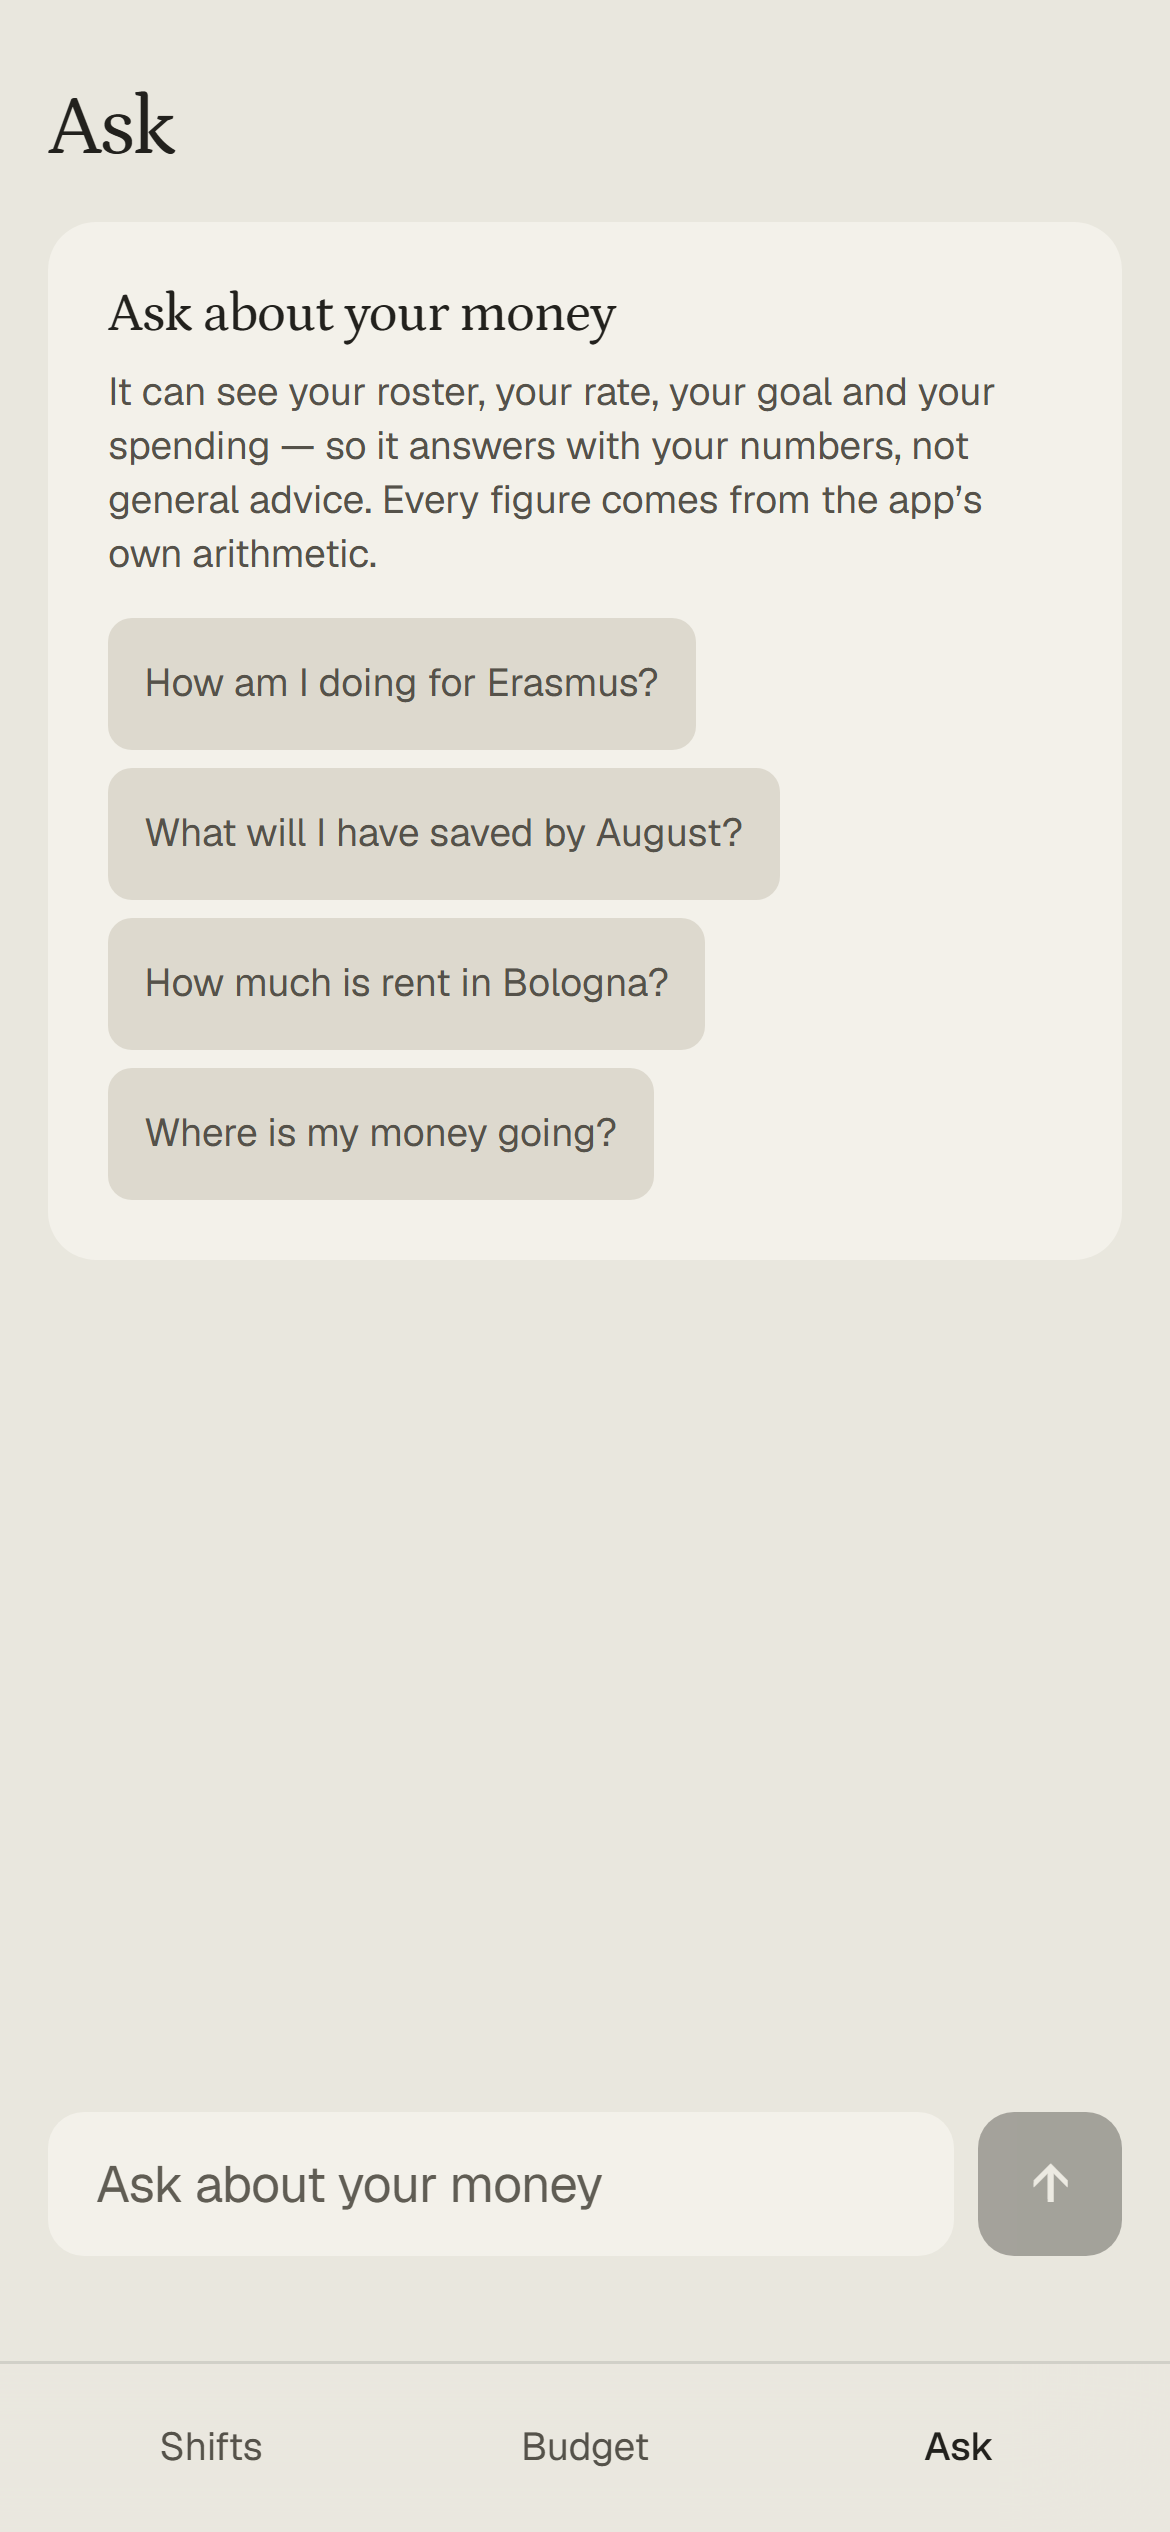
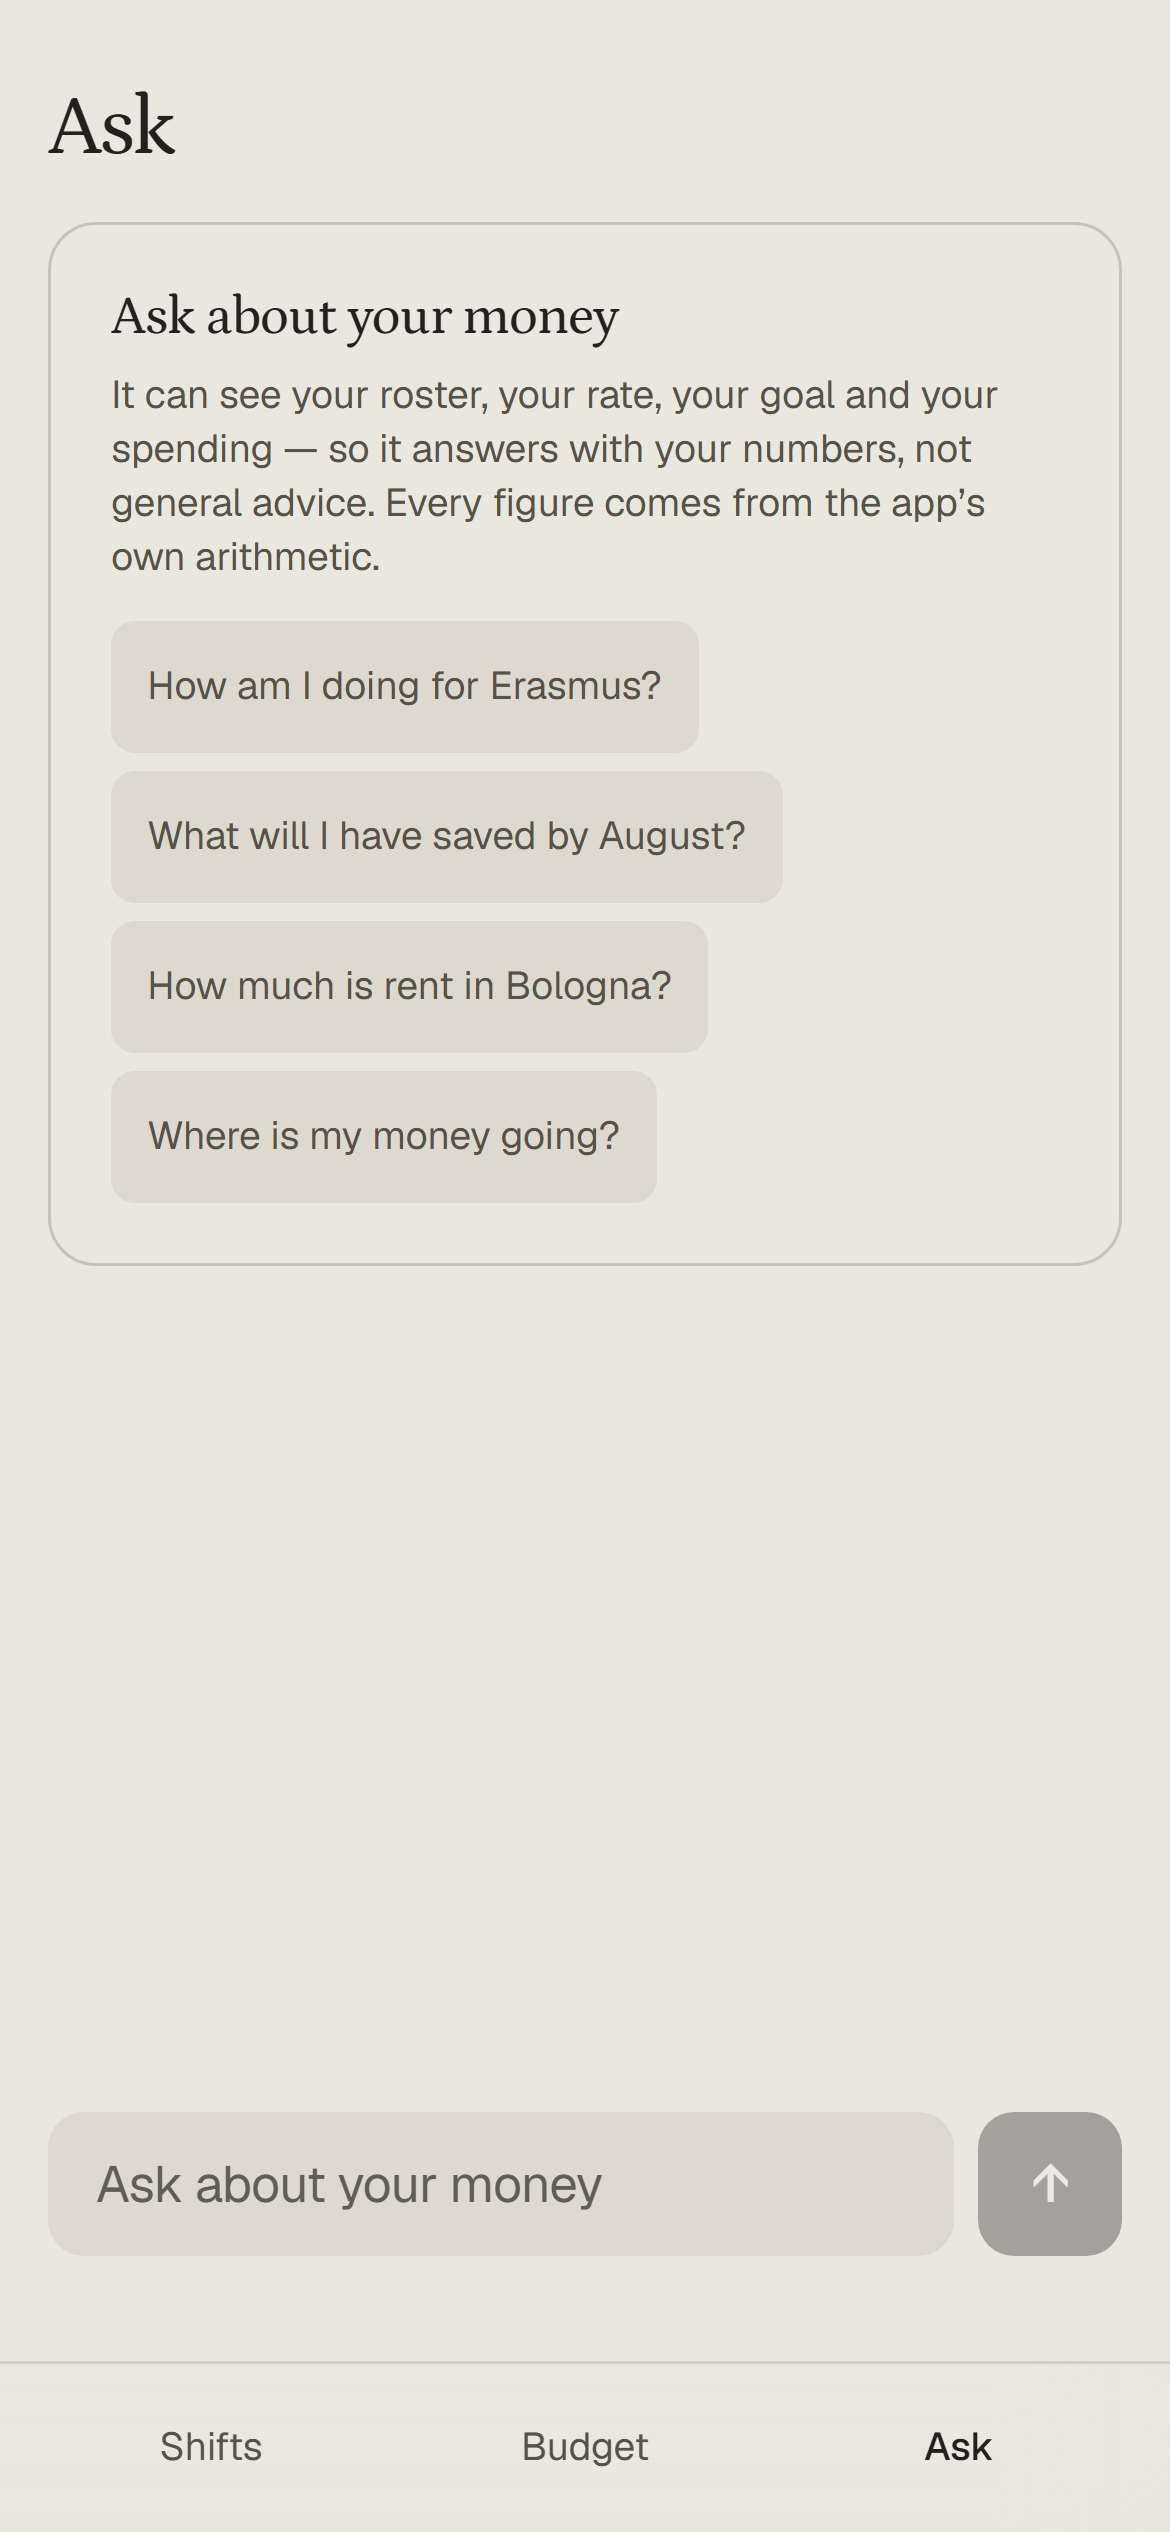
No card gets a fill
Every card carried --surface-raised, a second surface a shade off the page.
Enough of them and the screen reads as a dashboard however flat the shadows
are: a stack of filled rectangles is the shape, and the fill is what makes
each one an object competing with its neighbours. Separation now comes from
one hairline and from space.

--surface-raised is deleted rather than left unused. A "raised" token
sitting in the palette with no callers is the loaded gun — the next card
picks it up and the stack comes back. --surface-sunken survives, because
inset controls are genuinely below the page rather than above it.

Panel and Card had become the same primitive the moment fills went, so they
are one. That also fixes a latent bug: Panel set its own px-5 py-5 and every
call site passed different padding after it, so which padding won depended
on Tailwind's output order rather than on the code.

Four ad-hoc filled sections in setup and the AI tab are hairlines too, and
the chat composer moved to --segment-track, where every other input in the
app already sits. It was the last thing holding --surface-raised.

The rule's own corollary applied as well: if two things need separating, use
space rather than a container. A sentence saying there is nothing here does
not need a box drawn around the nothing, so Empty lost its card, as did
"Set a goal first" and "No spending recorded yet". A box around one sentence
was never a group.
[…]

diff --git a/app/_components/ui.tsx b/app/_components/ui.tsx
@@ -100,32 +100,21 @@ export function NavRow({
 }
 
 /**
- * The headline region: whatever number a screen exists to state.
+ * A grouped region. A hairline on the page field — never a fill.
  *
- * A hairline, not a fill. Every one of these was an inverted dark card until
- * the Discovery Series palette landed, and five dark slabs across five
- * screens were the heaviest thing in the app — the figure was being carried
- * by its background rather than by its size.
+ * Every card used to carry --surface-raised, a second surface a shade off the
+ * page. Enough of them and the screen reads as a dashboard however flat the
+ * shadows are: a stack of filled rectangles is the shape, and the fill is
+ * what makes each one an object competing with its neighbours.
  *
- * On a map sheet nothing is a filled block. Rank comes from ink weight and
- * from space, so the figure keeps the hero ramp and everything around it goes
- * quiet instead.
+ * On a map sheet nothing is a filled block. Separation comes from the rule
+ * and from space, so this draws one hairline and otherwise gets out of the
+ * way. Where two things need separating and neither is a group, use space
+ * instead of reaching for this.
+ *
+ * The one exception in the app is the "not settled yet" card, which keeps a
+ * fill because the fill IS the signal — see NextStep in app/page.tsx.
  */
-export function Panel({
-  children,
-  className = '',
-}: {
-  children: ReactNode;
-  className?: string;
-}) {
-  return (
-    <section className={`rounded-2xl border border-border px-5 py-5 ${className}`}>
-      {children}
-    </section>
-  );
-}
-
-/** A raised surface. Flat — separation comes from the surface step, not shadow. */
 export function Card({
   children,
   className = '',
@@ -133,7 +122,9 @@ export function Card({
   children: ReactNode;
   className?: string;
 }) {
-  return <section className={`rounded-2xl bg-surface-raised ${className}`}>{children}</section>;
+  return (
+    <section className={`rounded-2xl border border-border ${className}`}>{children}</section>
+  );
 }
 
 /** A hairline-separated list inside a Card. */
@@ -222,7 +213,7 @@ export function SecondaryLink({ href, children }: { href: string; children: Reac
 
 export function ErrorNote({ children }: { children: ReactNode }) {
   return (
-    <p role="alert" className="t-caption mt-4 rounded-xl bg-surface-raised px-4 py-3 text-critical">
+    <p role="alert" className="t-caption mt-4 rounded-xl border border-border px-4 py-3 text-critical">
       {children}
     </p>
   );
@@ -231,9 +222,12 @@ export function ErrorNote({ children }: { children: ReactNode }) {
 /** Empty states say what to do next, not merely that there is nothing here. */
 export function Empty({ title, children }: { title: string; children?: ReactNode }) {
   return (
-    <Card className="px-5 py-8 text-center">
+    // No container. A sentence saying there is nothing here does not need a
+    // box drawn around the nothing — the space above and below separates it
+    // from whatever comes next, which is the whole point of the rule.
+    <div className="px-1 py-6">
       <p className="t-heading">{title}</p>
-      {children && <p className="t-caption mt-1.5 text-fg-secondary">{children}</p>}
-    </Card>
+      {children && <p className="t-caption mt-1.5 max-w-[46ch] text-fg-secondary">{children}</p>}
+    </div>
   );
 }

diff --git a/app/budget/page.tsx b/app/budget/page.tsx
@@ -22,7 +22,13 @@ import {
 import { CATEGORY_LABEL } from '@/lib/budget/types';
 import { valueShift } from '@/lib/pay/calc';
 import { addDays, dublinDate } from '@/lib/time/dublin';
-import { Card, Group, GroupRow, Money, Screen, Panel } from '@/app/_components/ui';
+import {
+  Card,
+  Group,
+  GroupRow,
+  Money,
+  Screen,
+} from '@/app/_components/ui';
 import { TabBar } from '@/app/_components/TabBar';
 import { CsvImport, GoalLineForm, OutgoingForm } from './BudgetForms';
 import { endOutgoing } from './actions';
@@ -90,7 +96,7 @@ export default async function BudgetPage() {
       </header>
 
       {/* -- The sentence the app exists to say. -------------------------- */}
-      <Panel className="px-6 py-6">
+      <Card className="px-6 py-6">
         {goal && target.cents > 0 ? (
           <>
             <p className="t-caption text-fg-secondary">
@@ -120,7 +126,7 @@ export default async function BudgetPage() {
             </p>
           </>
         )}
-      </Panel>
+      </Card>
 
       {/* -- What the goal is made of. ------------------------------------ */}
       <section className="mt-6">
@@ -162,14 +168,14 @@ export default async function BudgetPage() {
         {goal ? (
           <GoalLineForm />
         ) : (
-          <Card className="px-5 py-4">
+          <div className="px-1">
             <p className="t-caption text-fg-secondary">
               Set a goal first, then add what it costs.
             </p>
-            <Link href="/goal" className="t-caption mt-2 inline-flex min-h-11 items-center underline">
+            <Link href="/goal" className="t-caption mt-1 inline-flex min-h-11 items-center underline">
               Set a goal
             </Link>
-          </Card>
+          </div>
         )}
       </section>
 
@@ -214,12 +220,12 @@ export default async function BudgetPage() {
            mean magnitude only. */}
       <section className="mt-6">
         <p className="t-label mb-2 px-1 text-fg-secondary">Where it went</p>
-        <Card className="px-5 py-4">
-          {spending.length === 0 ? (
-            <p className="t-caption py-4 text-center text-fg-secondary">
-              No spending recorded yet. Import a statement below.
-            </p>
-          ) : (
+        {spending.length === 0 ? (
+          <p className="t-caption px-1 text-fg-secondary">
+            No spending recorded yet. Import a statement below.
+          </p>
+        ) : (
+          <Card className="px-5 py-4">
             <figure className="m-0 space-y-2.5">
               {spending.map((s) => (
                 <div key={s.category}>
@@ -251,8 +257,8 @@ export default async function BudgetPage() {
                 </table>
               </figcaption>
             </figure>
-          )}
-        </Card>
+          </Card>
+        )}
       </section>
 
       {/* -- Outgoings. ----------------------------------------------------- */}

diff --git a/app/period/page.tsx b/app/period/page.tsx
@@ -25,7 +25,6 @@ import {
   Group,
   GroupRow,
   Money,
-  Panel,
   PrimaryLink,
   Screen,
   SecondaryLink,
@@ -109,7 +108,7 @@ export default async function ThisPeriod(props: PageProps<'/period'>) {
       )}
 
       {/* -- The number. The whole point of the screen. ------------------- */}
-      <Panel className="px-6 py-7">
+      <Card className="px-6 py-7">
         <p className="t-caption text-fg-secondary">{worthLabel}</p>
         <p className="mt-2">
           <Money cents={value.cents} estimated={value.estimated} size="hero" />
@@ -119,12 +118,15 @@ export default async function ThisPeriod(props: PageProps<'/period'>) {
             ? 'No shifts logged yet'
             : `${value.shiftCount} shift${value.shiftCount === 1 ? '' : 's'} · ${formatMinutes(value.paidMinutes)} paid`}
         </p>
-      </Panel>
+      </Card>
 
       {/* -- Why it is still a guess, and what to do about it. ------------ */}
       {unconfirmed.length > 0 && (
         <Link href="/confirm" className="mt-3 block">
-          <Card className="flex items-center justify-between gap-3 border border-attention-wash bg-attention-wash px-5 py-4">
+          {/* The one card in the app that keeps a fill: the fill IS the
+              signal. Everything around it is a hairline now, so this reads
+              louder than it did when every card was filled. */}
+          <Card className="flex items-center justify-between gap-3 border-attention/35 bg-attention-wash px-5 py-4">
             <div>
               <p className="t-heading text-attention">
                 {unconfirmed.length} shift{unconfirmed.length === 1 ? '' : 's'} to confirm

diff --git a/app/setup/page.tsx b/app/setup/page.tsx
@@ -42,7 +42,7 @@ export default function SetupPage() {
       <form action={formAction} className="flex flex-1 flex-col">
         {/* -- The rate. The hero, because it is the number everything else
                is derived from. ------------------------------------------- */}
-        <section className="rounded-2xl bg-surface-raised px-5 py-4">
+        <section className="rounded-2xl border border-border px-5 py-4">
           <label
             htmlFor="rate"
             className="t-caption block text-center text-fg-secondary"
@@ -77,7 +77,7 @@ export default function SetupPage() {
         </section>
 
         {/* -- The other three, as one grouped list. -------------------- */}
-        <section className="mt-3 overflow-hidden rounded-2xl bg-surface-raised">
+        <section className="mt-3 overflow-hidden rounded-2xl border border-border">
           <Row
             question="Are your breaks paid?"
             note="Irish law gives no right to paid breaks, so only your contract can say."
@@ -166,7 +166,7 @@ export default function SetupPage() {
         {state.error && (
           <p
             role="alert"
-            className="t-caption mt-4 rounded-xl bg-surface-raised px-4 py-3 text-critical"
+            className="t-caption mt-4 rounded-xl border border-border px-4 py-3 text-critical"
           >
             {state.error}
           </p>

diff --git a/app/day/[date]/page.tsx b/app/day/[date]/page.tsx
@@ -4,7 +4,13 @@ import { aggregate } from '@/lib/pay/aggregate';
 import { formatMinutes } from '@/lib/pay/calc';
 import { valueShift } from '@/lib/pay/calc';
 import { dublinClock, dublinDate, isSundayWorkDate } from '@/lib/time/dublin';
-import { EstimateNote, Money, PageHeader, Screen, Panel } from '@/app/_components/ui';
+import {
+  Card,
+  EstimateNote,
+  Money,
+  PageHeader,
+  Screen,
+} from '@/app/_components/ui';
 import { AddShiftForm, EditShiftForm, type EditableShift } from './DayEditor';
 
 const ISO_DATE = /^\d{4}-\d{2}-\d{2}$/;
@@ -52,7 +58,7 @@ export default async function DayPage(props: PageProps<'/day/[date]'>) {
       />
 
       {shifts.length > 0 && (
-        <Panel className="mb-3 px-5 py-5">
+        <Card className="mb-3 px-5 py-5">
           <p className="t-caption text-fg-secondary">
             {value.estimated ? 'Worth about' : 'Worth'}
           </p>
@@ -63,7 +69,7 @@ export default async function DayPage(props: PageProps<'/day/[date]'>) {
             {value.shiftCount} shift{value.shiftCount === 1 ? '' : 's'} &middot;{' '}
             {formatMinutes(value.paidMinutes)} paid
           </p>
-        </Panel>
+        </Card>
       )}
 
       <div className="space-y-3">

diff --git a/app/goal/page.tsx b/app/goal/page.tsx
@@ -3,7 +3,15 @@ import { getContributions, getGoal, getSettings } from '@/lib/db/queries';
 import { project } from '@/lib/pay/projection';
 import { formatCents } from '@/lib/pay/money';
 import { dublinDate } from '@/lib/time/dublin';
-import { Card, Empty, Group, GroupRow, Money, PageHeader, Screen, Panel } from '@/app/_components/ui';
+import {
+  Card,
+  Empty,
+  Group,
+  GroupRow,
+  Money,
+  PageHeader,
+  Screen,
+} from '@/app/_components/ui';
 import { ContributionForm, GoalForm } from './GoalForms';
 import { deleteContribution } from './actions';
 
@@ -35,7 +43,7 @@ export default async function GoalPage() {
       />
 
       {goal && p && (
-        <Panel className="mb-3 px-6 py-6">
+        <Card className="mb-3 px-6 py-6">
           <p className="t-caption text-fg-secondary">
             {p.reached ? 'Target reached' : 'Set aside so far'}
           </p>
@@ -65,7 +73,7 @@ export default async function GoalPage() {
               ? 'Nothing left to save. Set a new target whenever you like.'
               : `${formatCents(p.remainingCents)} to go`}
           </p>
-        </Panel>
+        </Card>
       )}
 
       {goal && p && !p.reached && (

diff --git a/app/globals.css b/app/globals.css
@@ -25,8 +25,11 @@
 
 :root {
   /* Bone world */
+  /* There is no --surface-raised. Cards are hairlines on this field, not a
+     second surface a shade off it — a stack of filled rectangles reads as a
+     dashboard however flat the shadows are. --surface-sunken survives for
+     inset controls, which are genuinely below the page rather than above it. */
   --surface:         #e9e7de;
-  --surface-raised:  #f3f1ea;
   --surface-sunken:  #ddd9ce;
   --surface-inverse: #24231f;
 
@@ -78,7 +81,6 @@
   :root {
     /* Forest world */
     --surface:         #17181a;
-    --surface-raised:  #202124;
     --surface-sunken:  #121314;
     --surface-inverse: #f0eee6;
 
@@ -112,7 +114,6 @@
 
 @theme inline {
   --color-surface:         var(--surface);
-  --color-surface-raised:  var(--surface-raised);
   --color-surface-sunken:  var(--surface-sunken);
   --color-surface-inverse: var(--surface-inverse);
   --color-surface-chrome:  var(--surface-chrome);

diff --git a/app/ai/Chat.tsx b/app/ai/Chat.tsx
@@ -193,7 +193,7 @@ export function Chat({
         )}
 
         {error && (
-          <p role="alert" className="t-caption rounded-xl bg-surface-raised px-4 py-3 text-critical">
+          <p role="alert" className="t-caption rounded-xl border border-border px-4 py-3 text-critical">
             {error}
           </p>
         )}
@@ -212,7 +212,7 @@ export function Chat({
           onChange={(e) => setInput(e.target.value)}
           placeholder="Ask about your money"
           enterKeyHint="send"
-          className="t-body min-h-12 flex-1 rounded-xl bg-surface-raised px-4 outline-none placeholder:text-fg-placeholder"
+          className="t-body min-h-12 flex-1 rounded-xl bg-segment-track px-4 outline-none placeholder:text-fg-placeholder"
         />
         <button
           type="submit"
